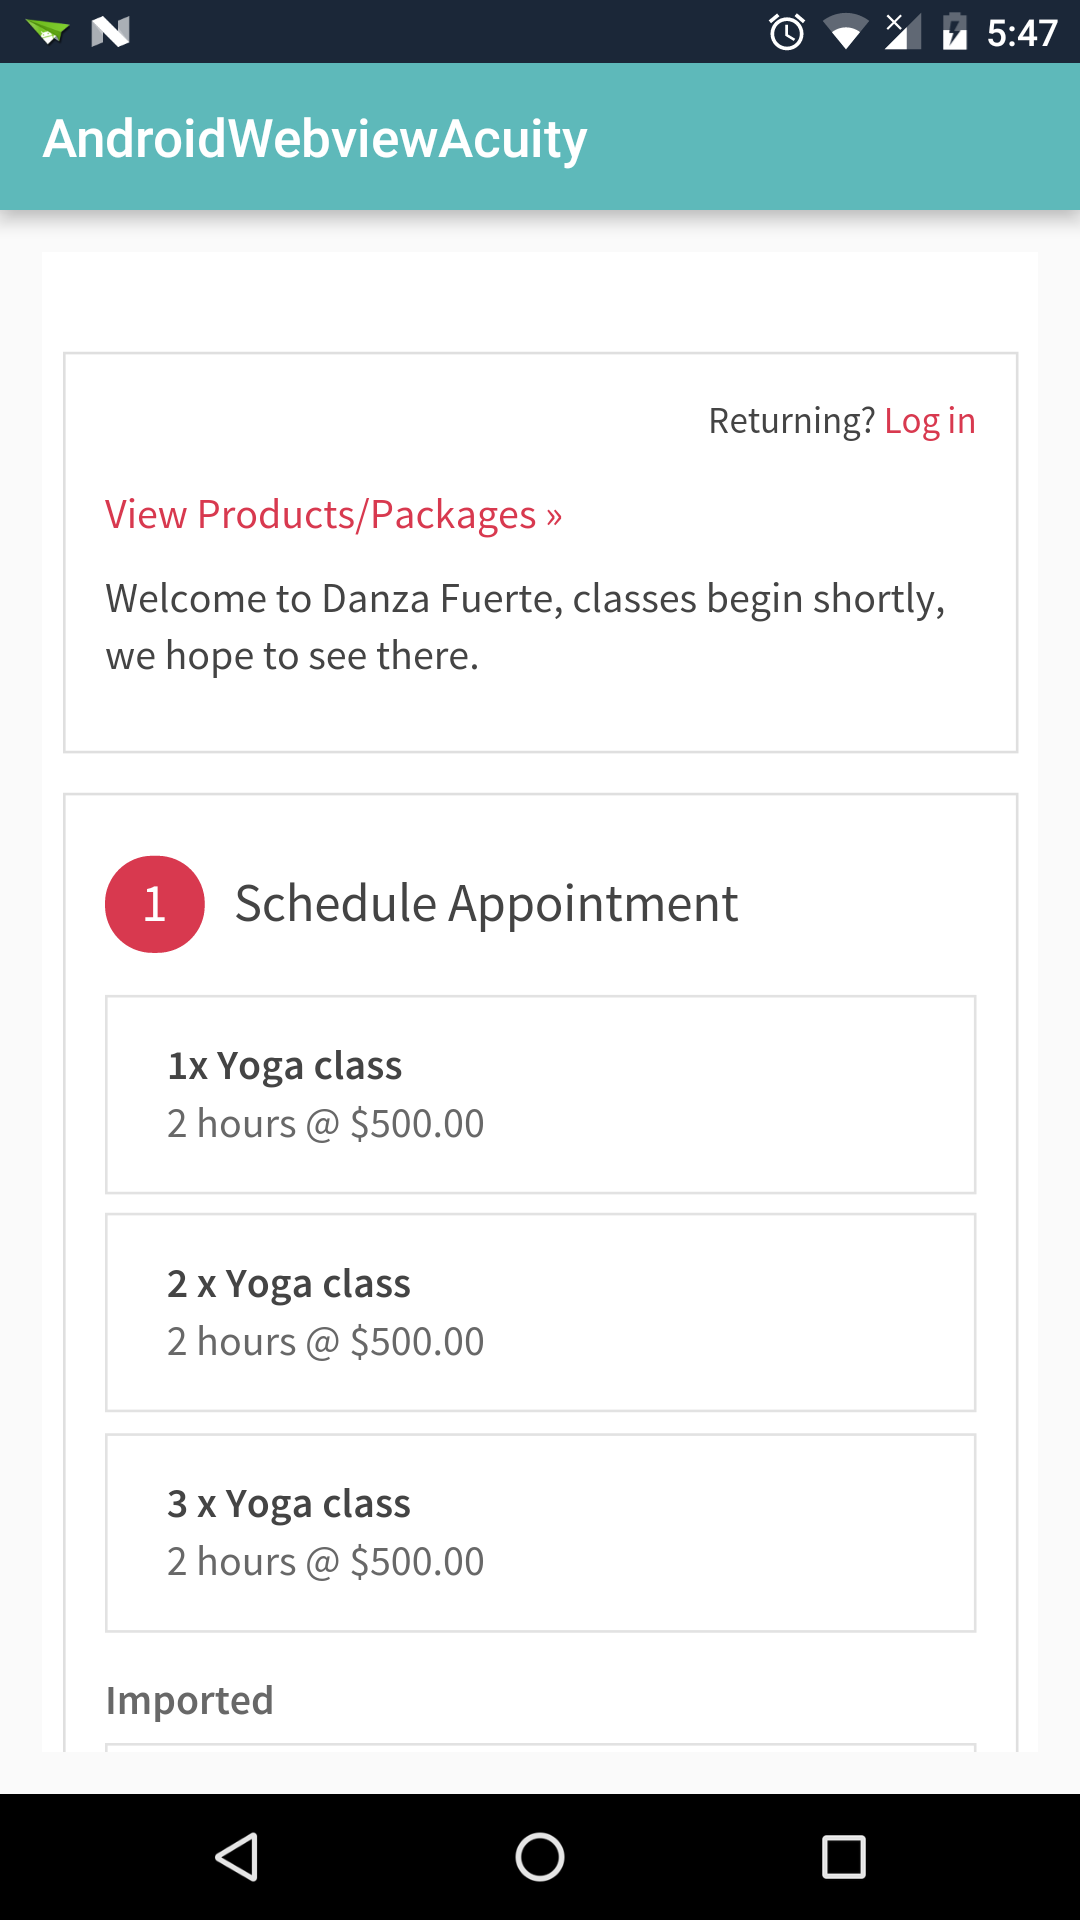
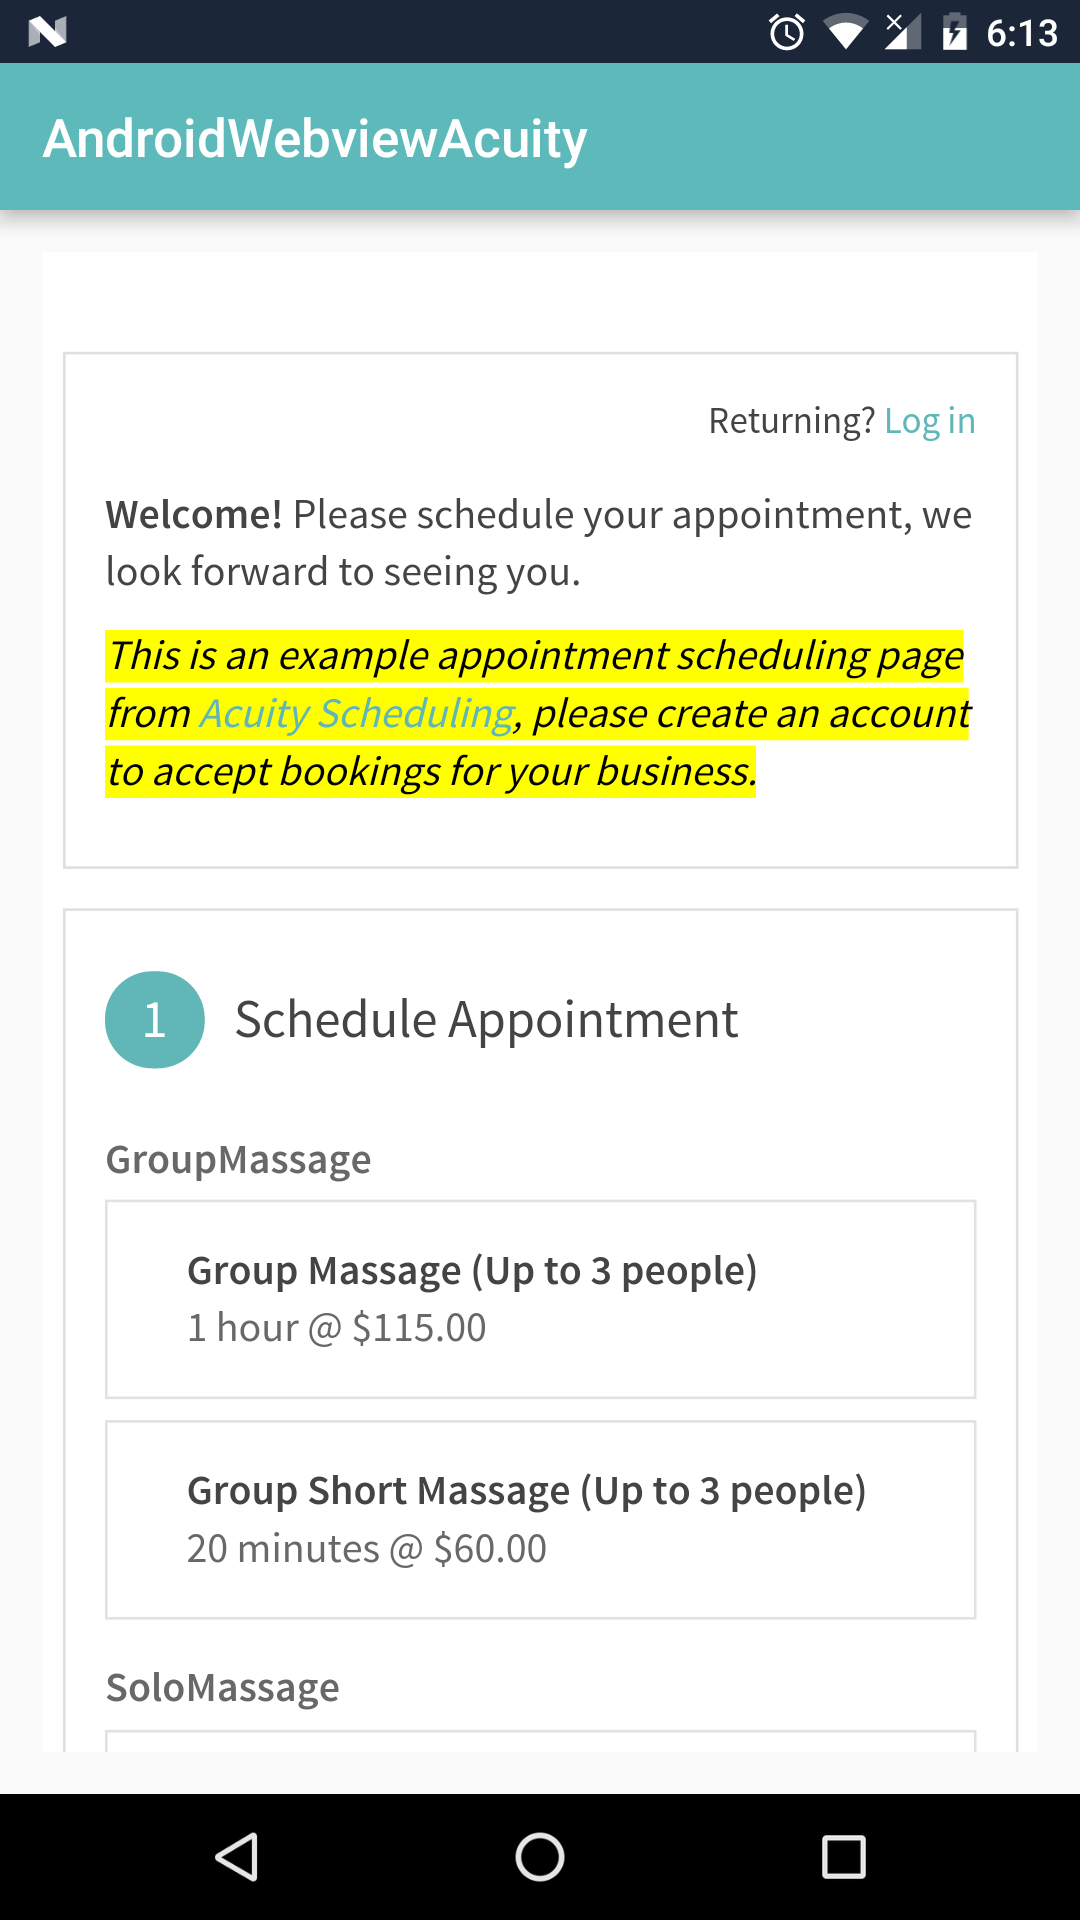
- Replaced the dancefuerte account with the example account for Android.

diff --git a/AndroidWebviewAcuity/app/src/main/java/acuityscheduling/com/androidwebviewacuity/MainActivity.java b/AndroidWebviewAcuity/app/src/main/java/acuityscheduling/com/androidwebviewacuity/MainActivity.java
@@ -24,7 +24,7 @@ public class MainActivity extends AppCompatActivity {
         WebSettings webSettings = scheduler.getSettings();
         webSettings.setJavaScriptEnabled(true);
 
-        scheduler.loadData("<iframe src=\"https://app.acuityscheduling.com/schedule.php?owner=12808744\" width=\"100%\" height=\"800\" frameBorder=\"0\"></iframe>\n" +
+        scheduler.loadData("<iframe src=\"https://app.acuityscheduling.com/schedule.php?owner=11266122\" width=\"100%\" height=\"800\" frameBorder=\"0\"></iframe>\n" +
                         "<script src=\"https://d3gxy7nm8y4yjr.cloudfront.net/js/embed.js\" type=\"text/javascript\"></script>", "text/html",
                 "utf-8");
 
